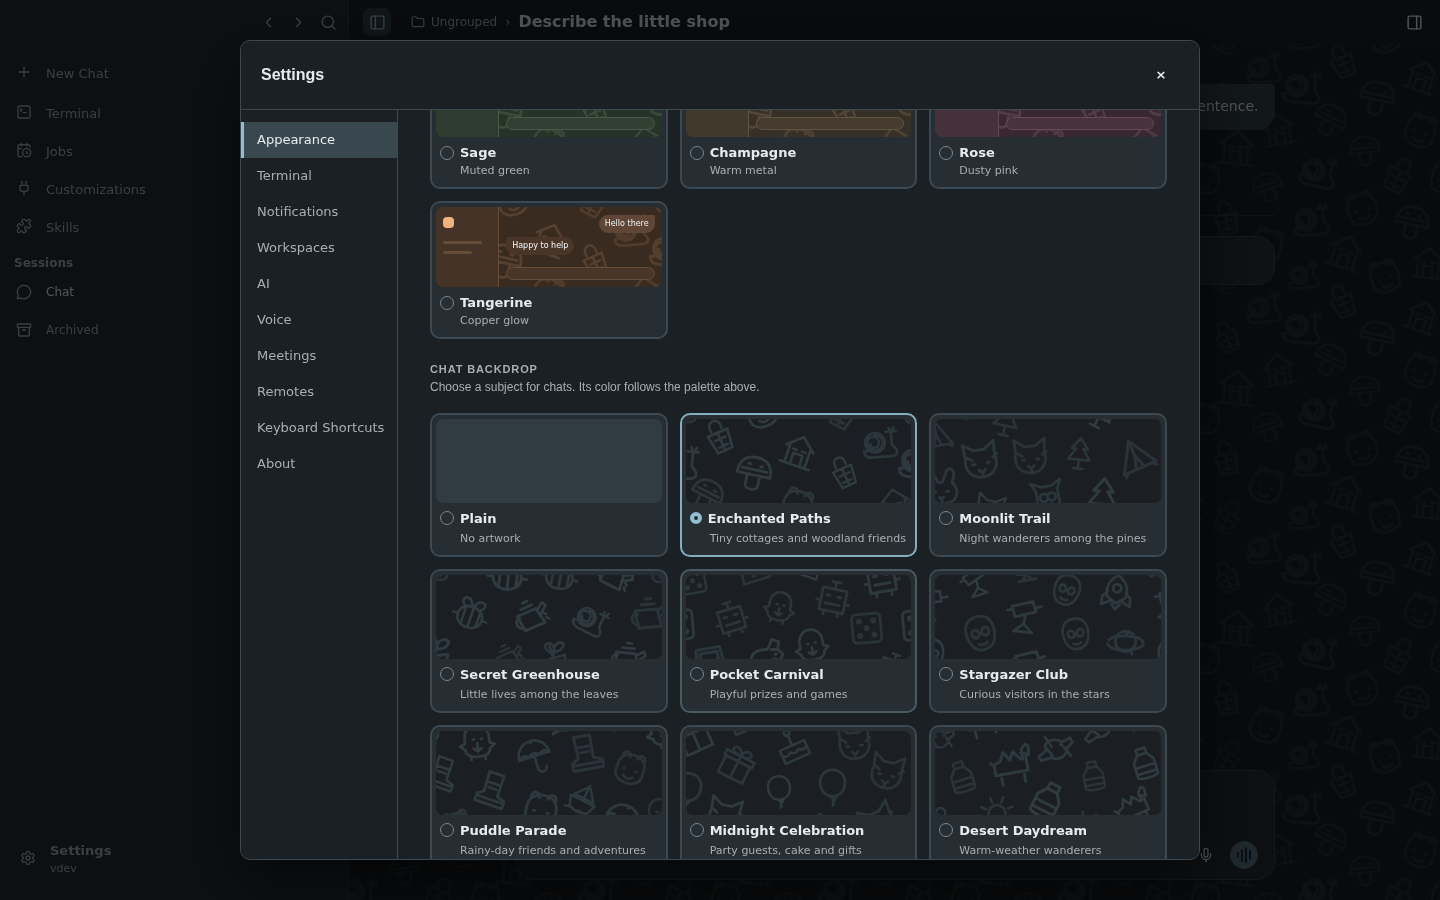
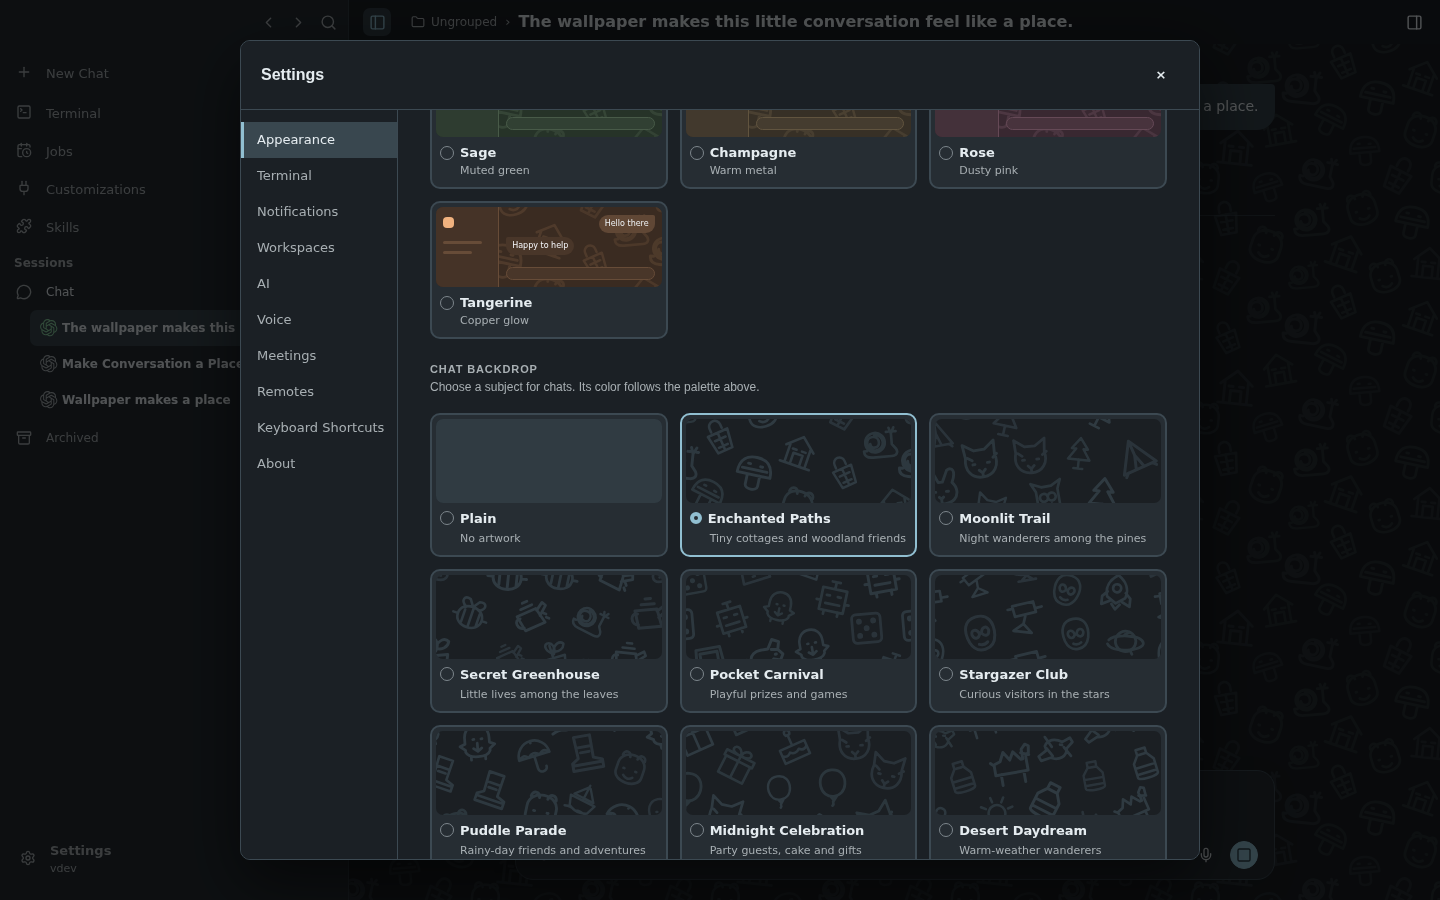
Match Appearance preview ink to live chat

diff --git a/web/src/components/settings-surface.ts b/web/src/components/settings-surface.ts
@@ -1127,7 +1127,7 @@ export class MuxSettingsSurface extends LitElement {
       <div class="appearance-grid" role="group" aria-label="Color palette">
         ${APP_THEMES.map(theme => {
           const sample = appThemeScheme(theme.id, mode);
-          const preview = `--preview-chat:${sample.chat};--preview-side:${sample.raised};--preview-border:${sample.border};--preview-accent:${sample.accent};--preview-user:${sample.user};--preview-assistant:${sample.assistant};--preview-text:${sample.text};--preview-assistant-text:${sample.assistantText};--preview-art:color-mix(in srgb, ${sample.accent} ${mode === 'light' ? 12 : 16}%, transparent);--preview-mask:${cfg.theme.backdrop === 'none' ? 'none' : `url("${backdropImage(cfg.theme.backdrop)}")`}`;
+          const preview = `--preview-chat:${sample.chat};--preview-side:${sample.raised};--preview-border:${sample.border};--preview-accent:${sample.accent};--preview-user:${sample.user};--preview-assistant:${sample.assistant};--preview-text:${sample.text};--preview-assistant-text:${sample.assistantText};--preview-art:color-mix(in srgb, ${sample.accent} ${mode === 'light' ? 10 : 12}%, transparent);--preview-mask:${cfg.theme.backdrop === 'none' ? 'none' : `url("${backdropImage(cfg.theme.backdrop)}")`}`;
           return html`<mux-ui-button class="appearance-choice" style=${preview} toggle ?pressed=${cfg.theme.app === theme.id} @click=${() => this._setAppTheme(theme.id)}>
             <span class="appearance-preview" aria-hidden="true"><span class="appearance-preview-side"><span></span><span></span><span></span></span><span class="appearance-preview-chat"><span class="appearance-preview-user">Hello there</span><span class="appearance-preview-reply">Happy to help</span><span class="appearance-preview-composer"></span></span></span>
             <span class="appearance-choice-label">${theme.label}</span><span class="appearance-choice-description">${theme.description}</span>
